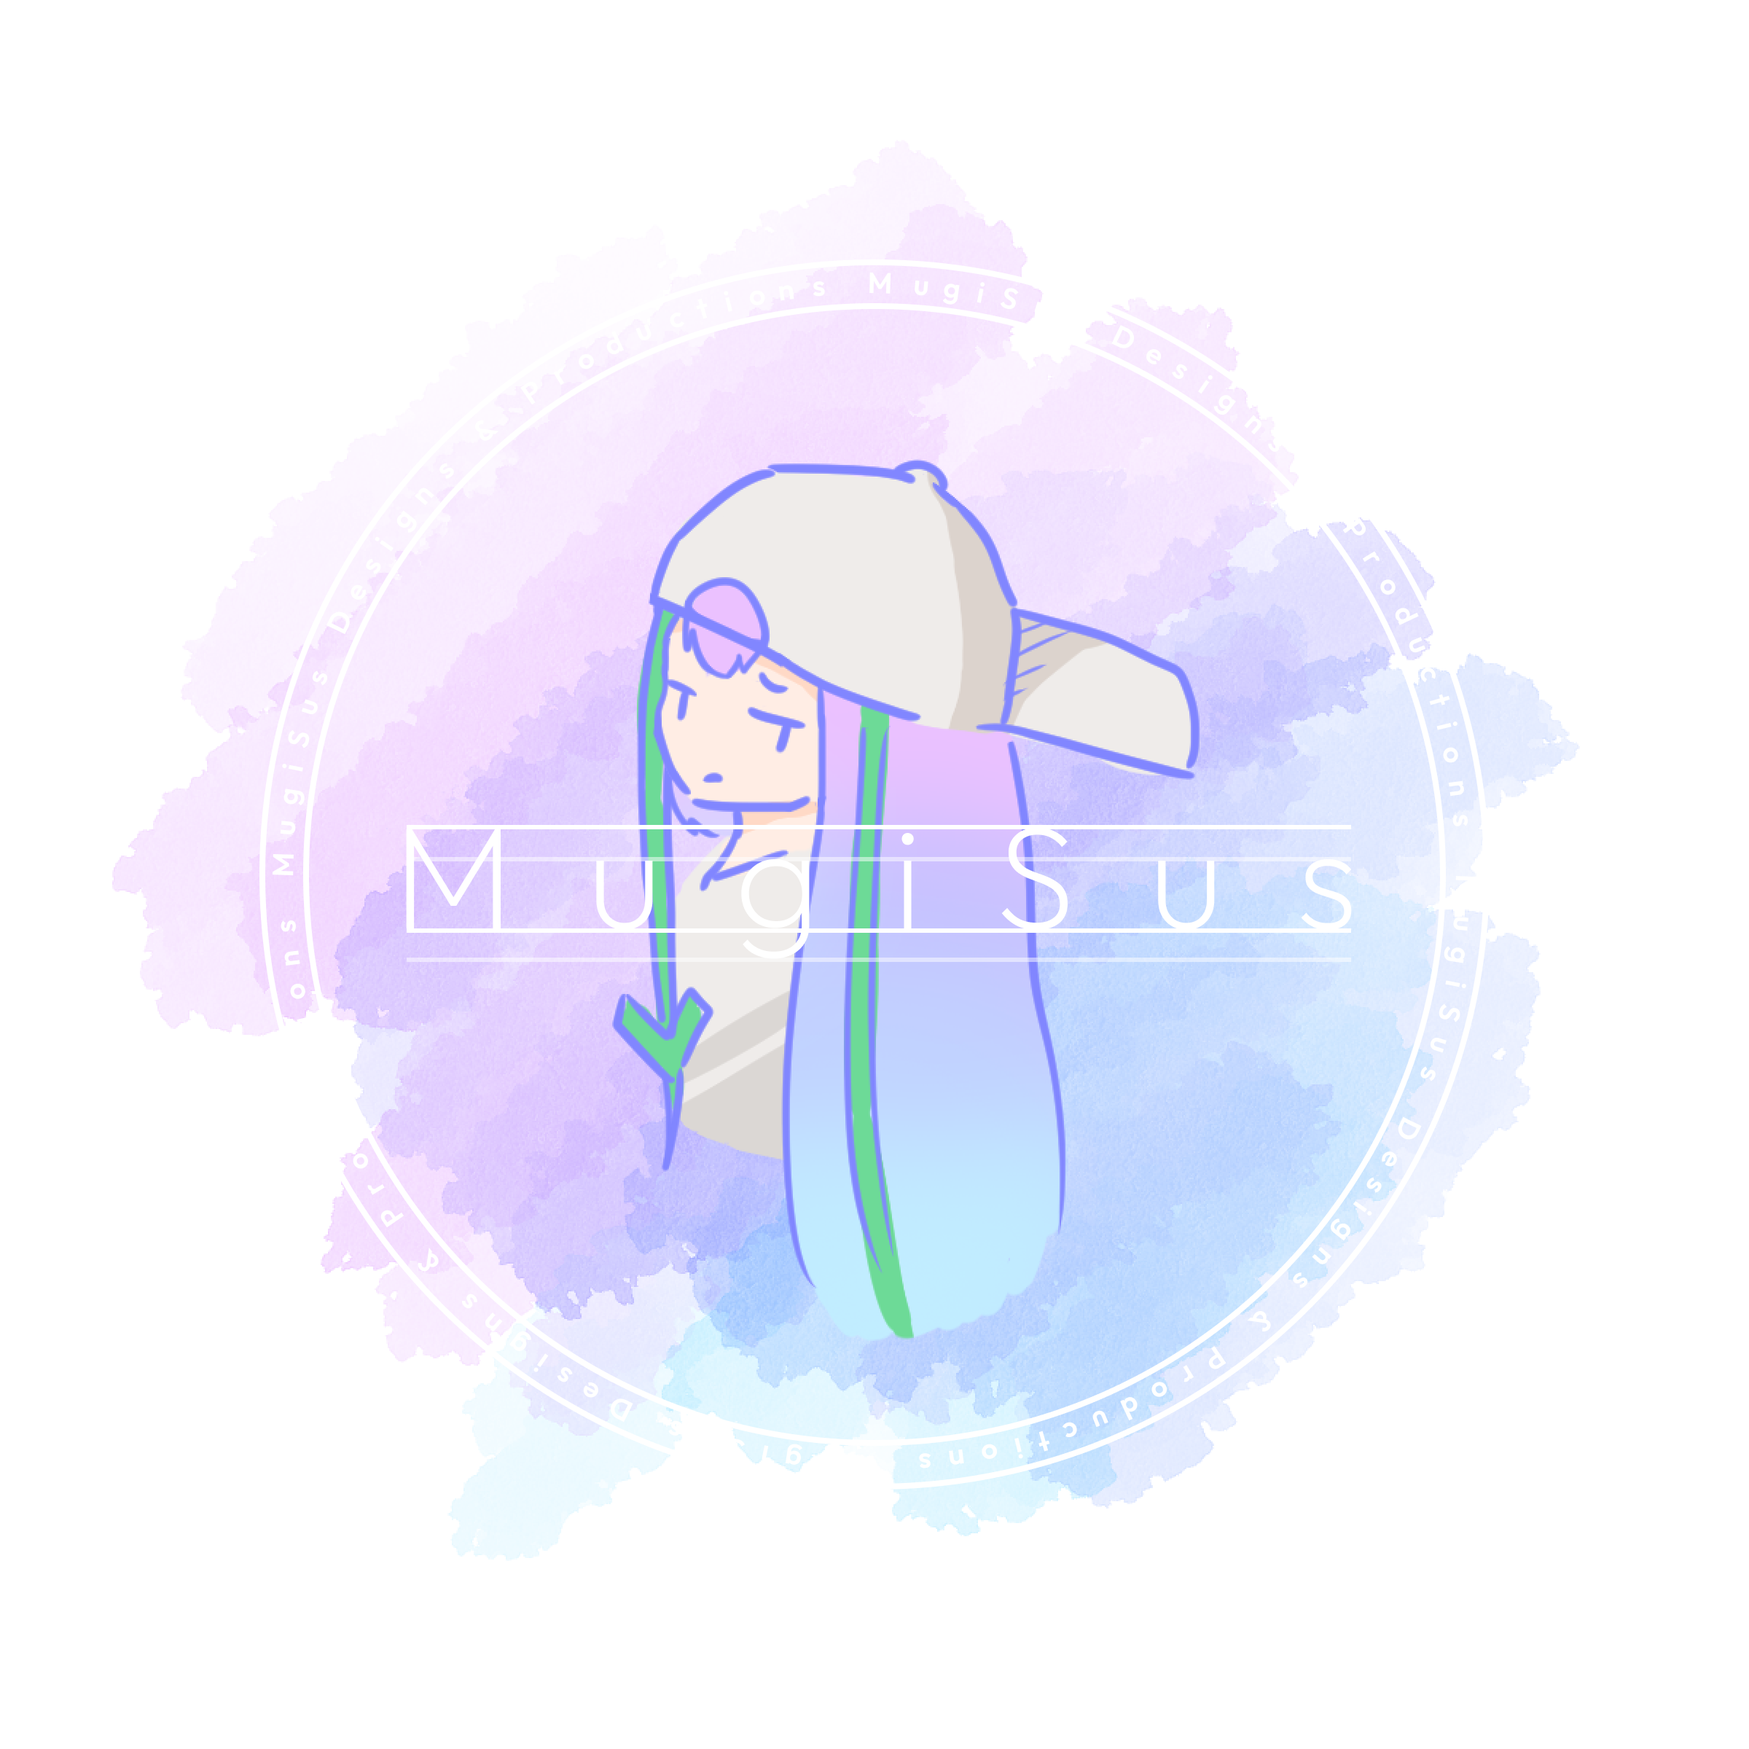
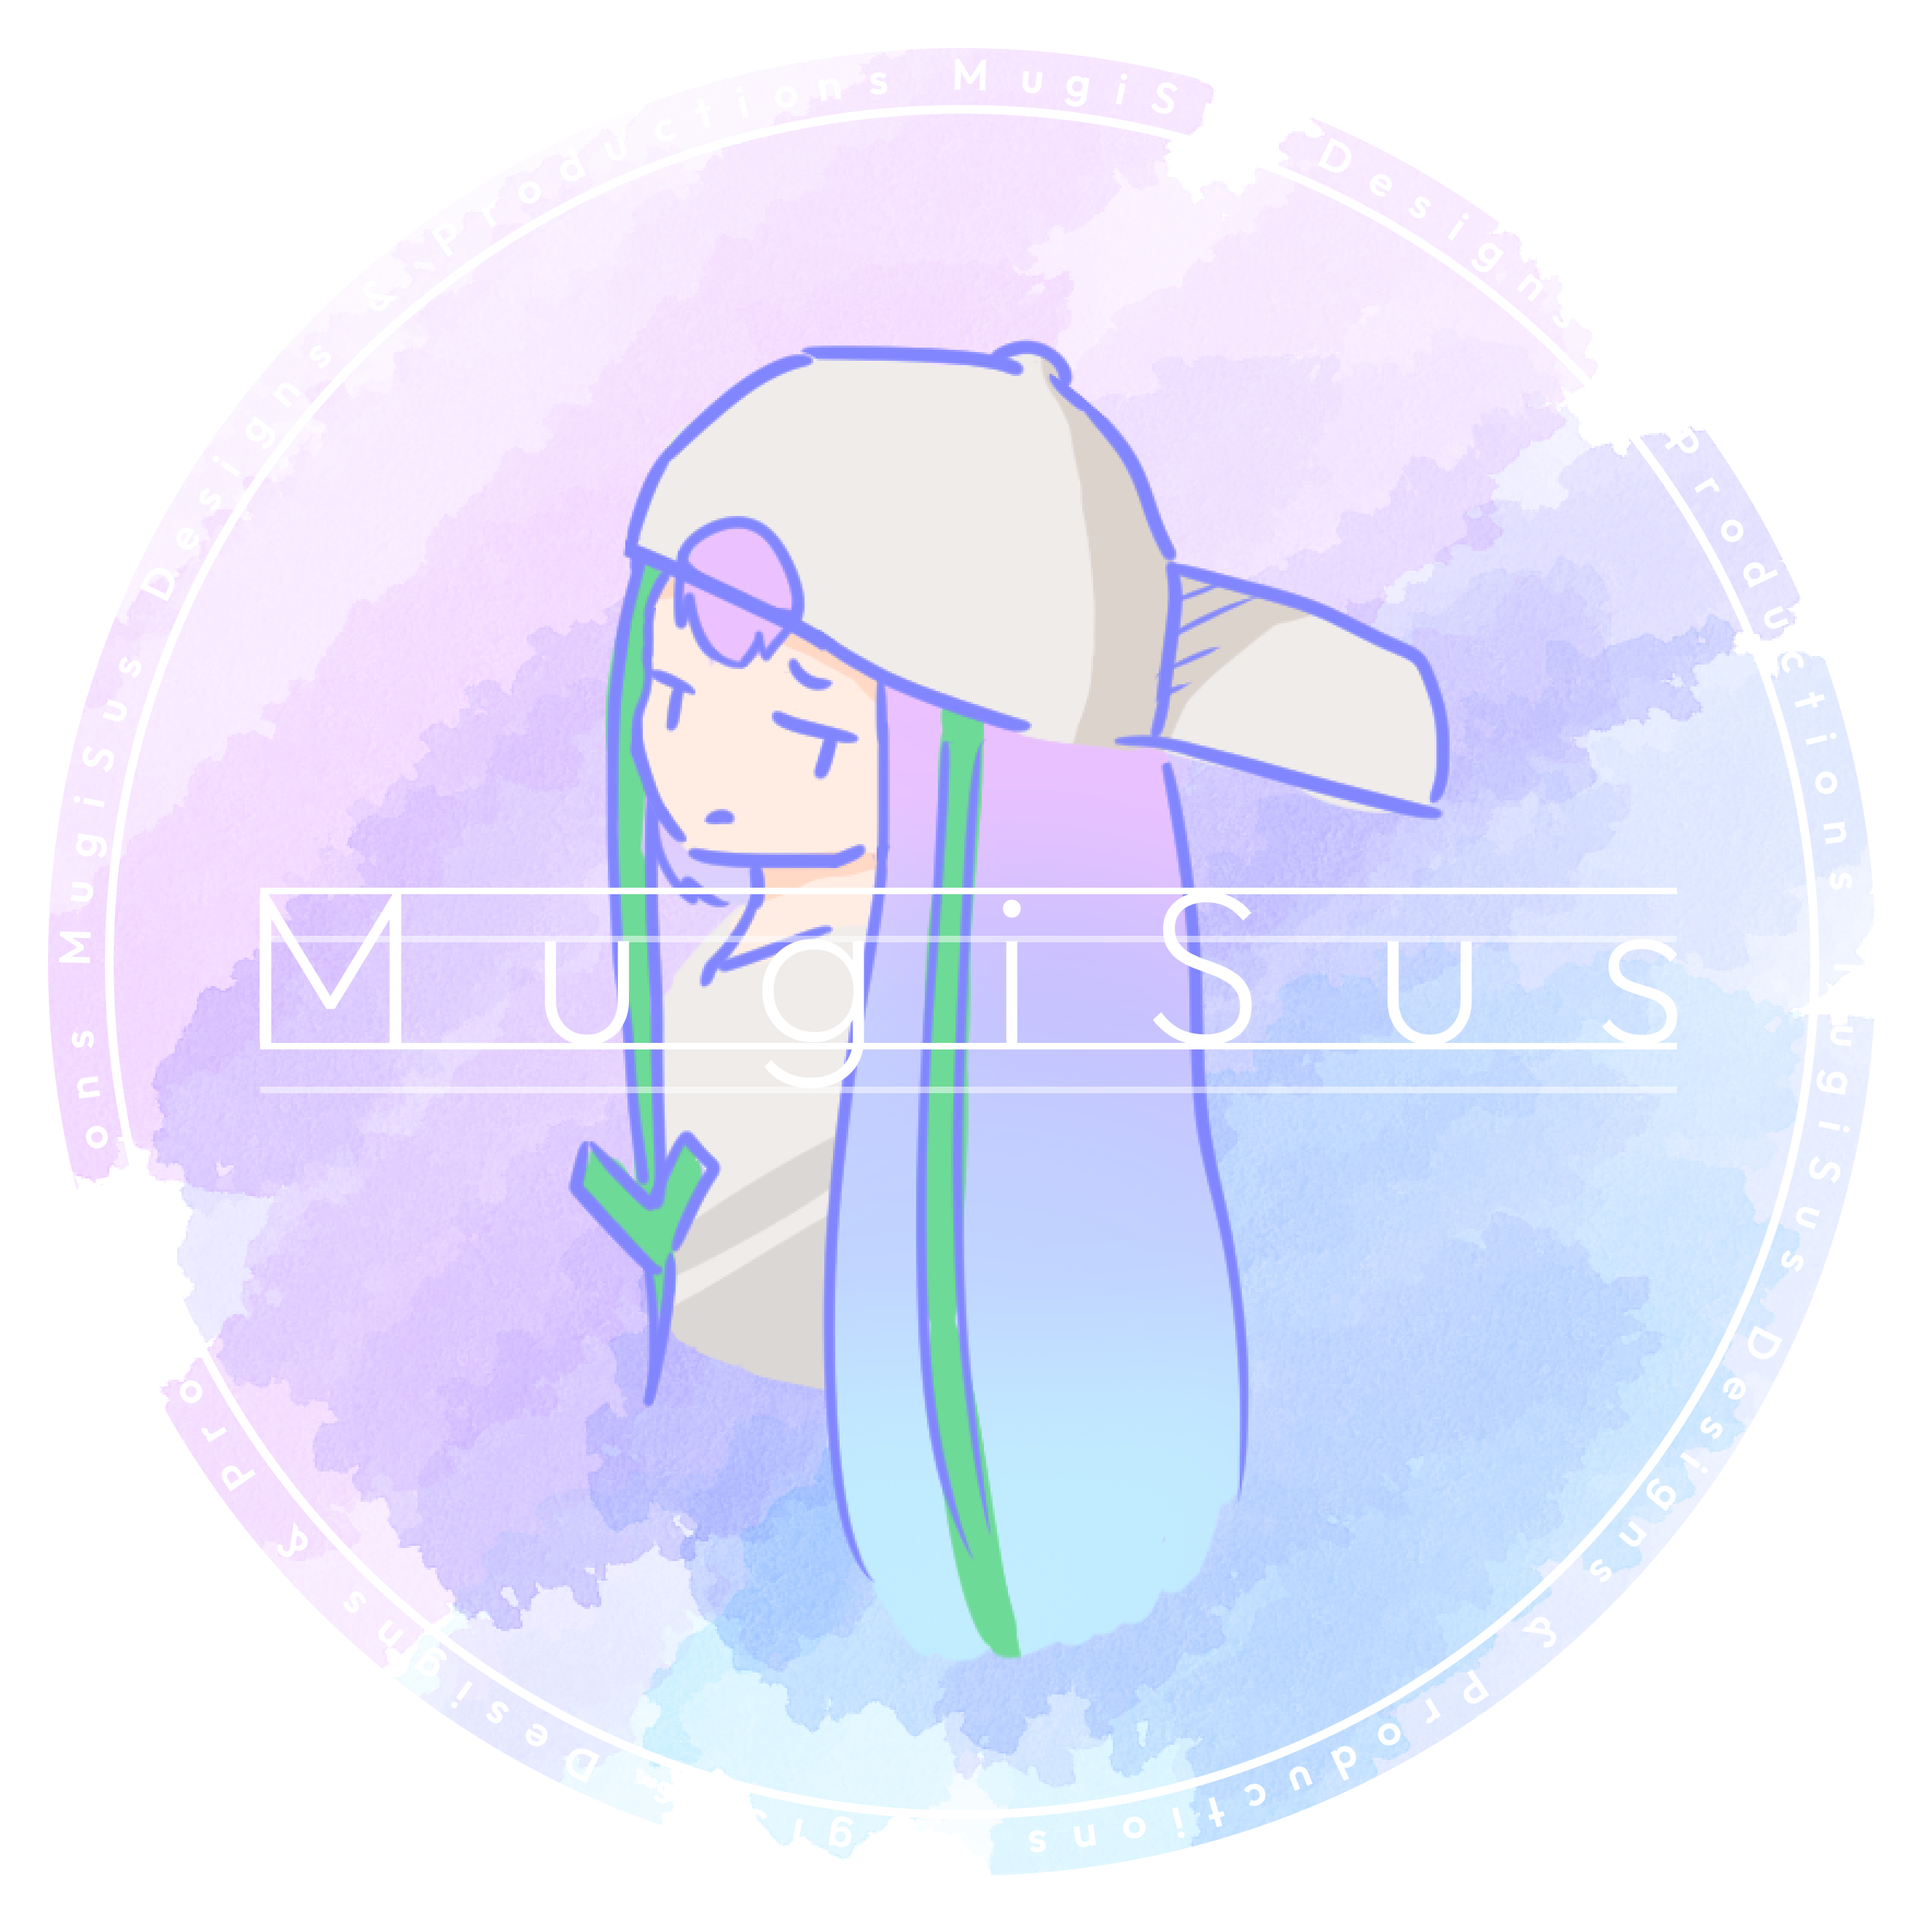
commit

diff --git a/pages/index.js b/pages/index.js
@@ -43,10 +43,14 @@ const Home = () => {
     }
 
     if (typeof window !== 'undefined') {
-        let background = document.querySelector('.background');
+        let background = document.getElementsByClassName("background")[0];
+        let headerImage = document.getElementsByClassName(styles.MugiSusDesignsAndProductionsImage)[0];
         window.addEventListener("scroll", () => {
             // document.body.style.setProperty("--scroll-y", `${window.scrollY * -0.1}px`);
             background.style.backgroundPositionY = `${window.scrollY * -0.2}px`;
+
+            // headerImage.style.transform = `translateY(${window.scrollY * 0.6}px)`;
+            // headerImage.style.opacity = `${1 - window.scrollY / headerImage.offsetHeight}`;
         });
     }
 

diff --git a/styles/Home.module.scss b/styles/Home.module.scss
@@ -7,6 +7,8 @@
 
 .MugiSusDesignsAndProductionsImage {
 	width: 100%;
+	z-index: -100000;
+	margin-top: 4rem;
 }
 
 .sections {
